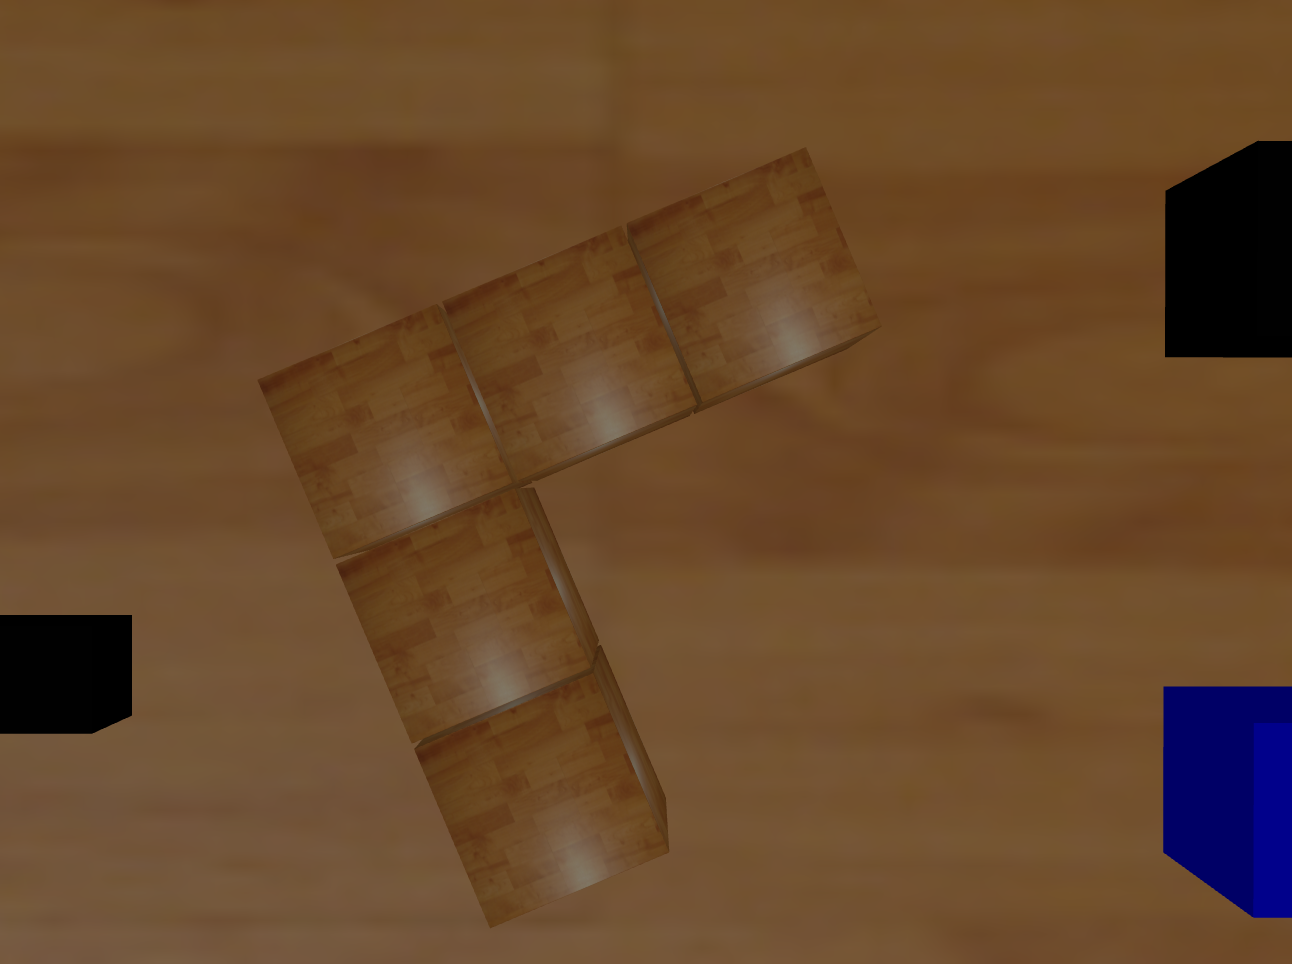
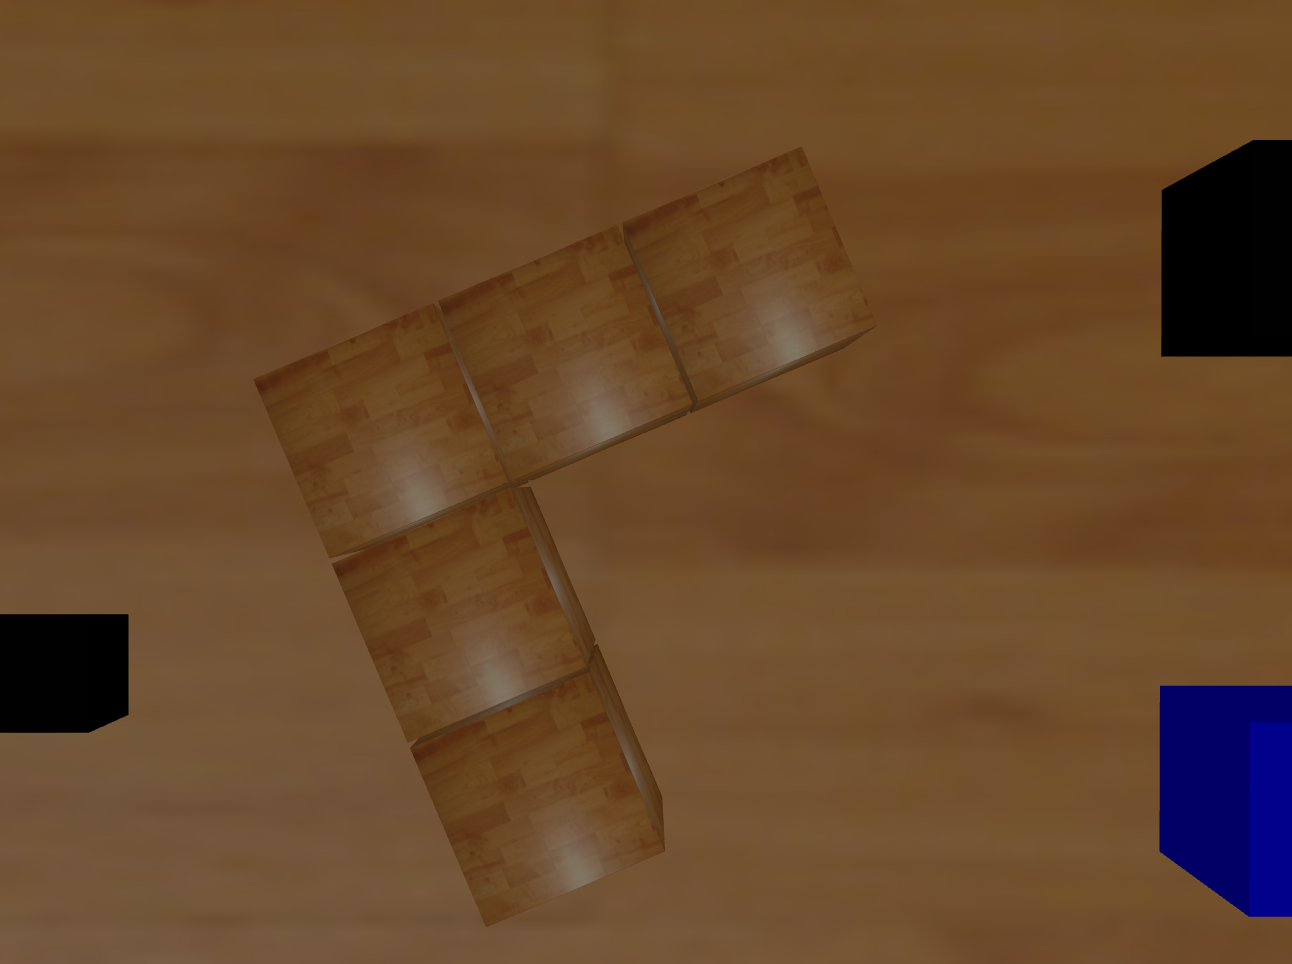
Few changes in final position offset. shutdown ros when puzzle completed

diff --git a/kuka_pentomino/src/ec2_solvers/src/solver.cpp b/kuka_pentomino/src/ec2_solvers/src/solver.cpp
@@ -252,49 +252,11 @@ namespace ec2
         return true;
     }
 
-
-
-// =============================================================================================================================
-
-
-    bool Solver::getTCPModel(image_geometry::PinholeCameraModel &model, bool now){
-        // this is only use here and nowhere else
-        static ros::Time latest_stamp(0);
-        ros::Time stamp = now ? ros::Time::now() : latest_stamp;
-
-        cv_bridge::CvImagePtr bridge_color;
-        cv_bridge::CvImagePtr bridge_depth;
-
-        bool ok = ec2if_.getTCPcam()->getData(bridge_color, bridge_depth, model, stamp, ros::Duration(10));
-        if (not ok)
-        {
-            return false;
-        }
-        return true;
-    }
-
-    bool Solver::getPTModel(image_geometry::PinholeCameraModel &model, bool now){
-        // this is only use here and nowhere else
-        static ros::Time latest_stamp(0);
-        ros::Time stamp = now ? ros::Time::now() : latest_stamp;
-
-        cv_bridge::CvImagePtr bridge_color;
-        cv_bridge::CvImagePtr bridge_depth;
-
-        bool ok = ec2if_.getPTcam()->getData(bridge_color, bridge_depth, model, stamp, ros::Duration(10));
-        if (not ok)
-        {
-            return false;
-        }
-        return true;
-    }
-
     void Solver::getBasePosFromPixel(Point2d pixel, Eigen::Vector3d &pos, image_geometry::PinholeCameraModel model){
         double Z = -0.082;
         // Convert 2d point to 3d ray passing in point P
         Point3d v;
         v = model.projectPixelTo3dRay(pixel);
-        // cout << "3d Ray: " << v << endl;
         // Transformation to Base
         Eigen::Affine3d tf;
         getTransformation("iiwa_base", model.tfFrame(), tf);
@@ -314,9 +276,9 @@ namespace ec2
             for(size_t j = 0; j < posP5.size(); j++){
                 if(i!=j){
                     d = sqrt(pow(posP5[j].x()-posP5[i].x(), 2)+pow(posP5[j].y()-posP5[i].y(), 2)*1.0);
-                    cout << "dist: " << d << "\nI: " << posP5[i].transpose() << "\nJ: " << posP5[j].transpose() << endl;
+                    cout << "dist: " << d << "I: " << posP5[i].transpose() << "J: " << posP5[j].transpose() << endl;
                     if(d <= 0.1){   // MAIS TESTES PARA VERIFICAR ISTO
-                        cout << "CLOSE POINTS\n" << posP5[i].transpose() << "\n" << posP5[j].transpose() << endl;
+                        cout << "Close Points!" << endl;
                         posP5.erase(posP5.begin()+j);
                     }    
                 }    
@@ -410,7 +372,7 @@ namespace ec2
         // Prevents unnecessary visits to pieces
         removeClosePoints(detectedPiecesPT);
         
-        ROS_INFO("Getting mid-point for each piece...");
+        ROS_INFO("Getting each piece mid-point...");
         string name;
         double yaw = 0;
         bool ok;
@@ -427,7 +389,6 @@ namespace ec2
                     break;
                 ok = lookAt(detectedPiecesPT[i], yaw, 0.2, true);
             }
-            // If can reach get the top image, else means its a point unreachable with the arm in this position
             if(ok){
                 // Sleep 1 second
                 ros::Duration(1.0).sleep();
@@ -487,15 +448,14 @@ namespace ec2
                 getDataFromTCP(color, depth, modelTCP, true);
                 name = "tempImages/Piece"+to_string(j)+".png";
                 cvtColor(color, color, CV_BGR2RGB);
-                // imshow(name, color);
                 imwrite(name, color);
 
-                cout << "Categorize Pieces" << endl;
+                ROS_INFO("Categorize Pieces");
                 contours_image = pieceDetect.imagePieceToContours(color);
                 bool status = pieceDetect.categorizeAndDetect(templates, contours_image, piece, angle , pointPiece);
                 //rotate robot until recognize the piece
                 while(!status){
-                    cout << "Try Categorize Piece Again" << endl;
+                    ROS_INFO("Failed to classify. \nTrying Categorize Piece Again");
                     bool statusPose = false;
                     while(not statusPose){
                         yaw += M_PI/2;
@@ -505,9 +465,8 @@ namespace ec2
                     }
                     ros::Duration(1.0).sleep();
                     getDataFromTCP(color, depth, modelTCP, true);
-                    name = "tempImages/Piece"+to_string(j)+".png";
+                    name = "tempImages/Piece"+to_string(j)+"_"+to_string(yaw)+".png";
                     cvtColor(color, color, CV_BGR2RGB);
-                    // imshow(name, color);
                     imwrite(name, color);
                     contours_image = pieceDetect.imagePieceToContours(color);
                     status = pieceDetect.categorizeAndDetect(templates, contours_image, piece, angle , pointPiece);
@@ -526,31 +485,28 @@ namespace ec2
 
         ROS_INFO("Grab pieces and solve puzzle...");
         Eigen::Vector3d piece_final_pos;
-        double offset_pieces  = 0.04;
+        double x_final_pos_puzzle, y_final_pos_puzzle;
         std::vector<std::tuple <char, int, int, double>> solution = puzzle_solver.getSolution();
         for(size_t i = 0; i < solution.size(); i++){
-
-            for (size_t j = 0; j < grabPos.size(); j++)
-            {
+            for (size_t j = 0; j < grabPos.size(); j++){
                 if(get<0>(solution[i]) == get<0>(grabPos[j])){
                     cout << "Grab Piece: " << get<0>(grabPos[j]) << " at angle: " << get<1>(grabPos[j]) << " and pos: " << get<2>(grabPos[j]).transpose() << endl;
-                    tmp = get<2>(grabPos[j]);
                     setGripper(get<2>(grabPos[j]), get<1>(grabPos[j]), 0.2);
-                    grabPiece(0.02, 0.1, 120);
+                    grabPiece(0.01, 0.1, 120);
                 }
-            }
-                    
-            double x_final_pos_puzzle = -(get<1>(solution[i])*0.035)+0.005;
-            double y_final_pos_puzzle = -(get<2>(solution[i])*0.035)-0.025;
+            }        
+            x_final_pos_puzzle = -(get<1>(solution[i])*0.0358)+0.0065;
+            y_final_pos_puzzle = -(get<2>(solution[i])*0.0358)-0.025;
             piece_final_pos = playFramePos + Eigen::Vector3d( x_final_pos_puzzle, y_final_pos_puzzle, 0.17);
-            angle = (360-get<3>(solution[i]))*(M_PI/180);
+            angle = ((360-get<3>(solution[i]))*(M_PI/180))+yaw;
             cout << "Piece solution: " << get<0>(solution[i]) << " at angle: " << angle << " and pos: " <<  piece_final_pos.transpose() << endl;
             setGripper(piece_final_pos, angle, 0.2);
-            cout << "Drop piece"<< endl;
+            cout << "Drop piece in place"<< endl;
             releasePiece(0.01, 0.1, 80);
         }
-        
         ROS_INFO("Pentominoes Puzzle Finished");
+        resetArm();
+        ros::shutdown();
     }
 
 } // namespace ec2

diff --git a/kuka_pentomino/src/ec2_solvers/src/pieceDetection.cpp b/kuka_pentomino/src/ec2_solvers/src/pieceDetection.cpp
@@ -8,73 +8,7 @@ using namespace std;
 using namespace cv;
 
 namespace ec2{
-    // void pieceDetection::getPiecesAvgCenter(Mat frame, Point2d &center){
-    //     Mat b = imread("tableNoPieces.png", IMREAD_COLOR), thresholdImage, output = Mat::zeros(frame.size(), CV_8UC3);
-    //     cvtColor(frame, frame, COLOR_BGR2RGB);  // Convert Image from Pan Tilt Camera
-    //     bitwise_xor(b, frame, frame);           // Remove everything that isn't pieces
-    //     medianBlur(frame, frame, 7);            // Apply filters
-    //     threshold(frame, frame, 8, 255, THRESH_BINARY);
-    //     medianBlur(frame, frame, 7);
-    //     cvtColor(frame, frame, COLOR_BGR2GRAY);
-    //     threshold(frame, frame, 10, 255, THRESH_BINARY_INV);    
-    //     // Apply canny to the input image
-    //     Canny(frame, thresholdImage, 40, 85, 5);
-    //     // To store contours
-    //     vector<vector<Point>> contours;
-    //     // To store hierarchy(nestedness)
-    //     vector<Vec4i> hierarchy;
-    //     // Find contours
-    //     findContours(thresholdImage, contours, hierarchy, RETR_EXTERNAL, CHAIN_APPROX_SIMPLE, Point(0, 0));
-    //     // Draw contours
-    //     for (size_t i = 0; i < contours.size(); i++){
-    //         drawContours(frame, contours, i, Scalar(0), -1);
-    //     }
-    //     // Re-apply Canny
-    //     Canny(frame, thresholdImage, 40, 85, 5);
-    //     // Find contours again
-    //     findContours(thresholdImage, contours, hierarchy, RETR_EXTERNAL, CHAIN_APPROX_SIMPLE, Point(0, 0));
-        
-    //     double x, y, minX = frame.size().width, minY = frame.size().height, maxX = 0, maxY = 0;
-    //     // Get each contour center
-    //     for (size_t i = 0; i < contours.size(); i++){
-    //         if(contours[i].size() > 30){   // Discard noise contours
-    //             drawContours(output, contours, i, Scalar(255,255,255), CV_FILLED);
-    //             Rect br = boundingRect(contours[i]);
-    //             x = br.x+br.width/2;
-    //             y = br.y+br.height/2;
-    //             if(x < minX)
-    //                 minX = x;
-    //             if(y < minY)
-    //                 minY = y;
-    //             if(x > maxX)
-    //                 maxX = x;
-    //             if(y > maxY)
-    //                 maxY = y;
-    //         }
-    //     }
-
-    //     Rect f = Rect(Point(minX, minY), Point(maxX, maxY));
-    //     center = Point2d(f.x+f.width/2, f.y+f.height/2);
-
-    //     output.at<Vec3b>(center.y, center.x) = Vec3b(0,0,255);
-    //     output.at<Vec3b>(center.y+1, center.x-1) = Vec3b(0,0,255);
-    //     output.at<Vec3b>(center.y-1, center.x+1) = Vec3b(0,0,255);
-    //     output.at<Vec3b>(center.y+1, center.x+1) = Vec3b(0,0,255);
-    //     output.at<Vec3b>(center.y-1, center.x-1) = Vec3b(0,0,255);
-    //     output.at<Vec3b>(center.y+1, center.x) = Vec3b(0,0,255);
-    //     output.at<Vec3b>(center.y-1, center.x) = Vec3b(0,0,255);
-    //     output.at<Vec3b>(center.y, center.x+1) = Vec3b(0,0,255);
-    //     output.at<Vec3b>(center.y, center.x-1) = Vec3b(0,0,255);
-        
-    //     imshow("CANNY", thresholdImage);
-    //     imshow("Frame", frame);
-    //     imshow("OUT", output);
-    //     waitKey(0);
-    //     destroyAllWindows();
-    // }
-
     void pieceDetection::findPiecesPT(Mat templ, Mat frame, vector<Point2d> &piecesCenter, string name){
-        // Mat templ = imread("tableNoPieces.png", IMREAD_COLOR);   // TODO -> Try to get pieces excluding the black frame without this
         Mat diff, image, output = Mat::zeros(frame.size(), CV_8UC3);
         // Remove background including table and black frame
         bitwise_xor(templ, frame, diff);
@@ -110,8 +44,8 @@ namespace ec2{
             }
         }
         imwrite("tempImages/"+name+".png", output);
-        // waitKey(0);
-        // destroyAllWindows();
+        imwrite("tempImages/"+name+"_orig.png", frame);
+
     }
 
     void pieceDetection::getPiecesCenter(Mat frame, vector<Point2d> &piecesCenter){
@@ -153,12 +87,7 @@ namespace ec2{
             output.at<Vec3b>(center.y, center.x+1) = Vec3b(0,0,255);
             output.at<Vec3b>(center.y, center.x-1) = Vec3b(0,0,255);
         }
-
-        // imshow("CANNY", thresholdImage);
-        // imshow("MORPHOLOGY", frame);
-        // imshow("GET PIECES CENTER", output);
-        // waitKey(0);
-        // destroyAllWindows();
+        imwrite("tempImages/pieceCenter_"+to_string(center.x)+".png", output);
     }
 
     void pieceDetection::findPlayframe(Mat image, Point2d &innerCorner){
@@ -172,7 +101,6 @@ namespace ec2{
         //To store hierarchy(nestedness)
         vector<Vec4i> hierarchy;
         //Find contours
-        //findContours(thresholdedImage, contours, hierarchy, RETR_TREE, CHAIN_APPROX_SIMPLE);
         findContours(image, contours, hierarchy, RETR_EXTERNAL, CHAIN_APPROX_SIMPLE);
 
         double epsilon;
@@ -210,24 +138,15 @@ namespace ec2{
                 output.at<Vec3b>(innerCorner.y, innerCorner.x-1) = Vec3b(0,0,255);
             }
         }
-        // imshow("PLAY FRAME", output);
         imwrite("tempImages/PLAYFRAME.png", output);
-        // waitKey(0);
-        // destroyAllWindows();
     }
 
     vector<Point> pieceDetection::imagePieceToContours(Mat image){
-        Mat frame, fgMask, diff_im, blurredImage, im_th, im_out, greyMat;
-
-        Mat kernel = Mat::ones(20,20, CV_32F);
-
-        Mat thresholdedImage;
+        Mat thresholdedImage, img, output = Mat::zeros( image.size(), CV_8UC3 );
         //Apply canny to the input image
         Canny(image, thresholdedImage, 50, 255, 5);
 
-        Mat img;
-
-        morphologyEx(thresholdedImage, img, MORPH_CLOSE, kernel);
+        morphologyEx(thresholdedImage, img, MORPH_CLOSE, Mat::ones(20,20, CV_32F));
         //To store contours
         vector<vector<Point>> contours;
         
@@ -243,12 +162,6 @@ namespace ec2{
             approxPolyDP(contours[i], contours[i], epsilon, true);
         }
 
-        //Output image to draw contours on
-        Mat output;
-        output = Mat::zeros( image.size(), CV_8UC3 );
-
-        RNG rng(12345);
-        
         int max = 0;
         int idx = 0;
         for (int i = 0; i < contours.size(); ++i)

diff --git a/kuka_pentomino/src/ec2_interface/src/gripper_interface.cpp b/kuka_pentomino/src/ec2_interface/src/gripper_interface.cpp
@@ -31,7 +31,7 @@ bool GripperInterface::grasp(double velocity, double force)
 //
 //    return false;
 	gripper_msgs::Move move_msg;
-	move_msg.request.position = 0.0352;//0.06 - (position / 2.0);
+	move_msg.request.position = 0.03515;//0.06 - (position / 2.0);
 	move_msg.request.velocity = velocity;
 	move_msg.request.force    = force;
 
